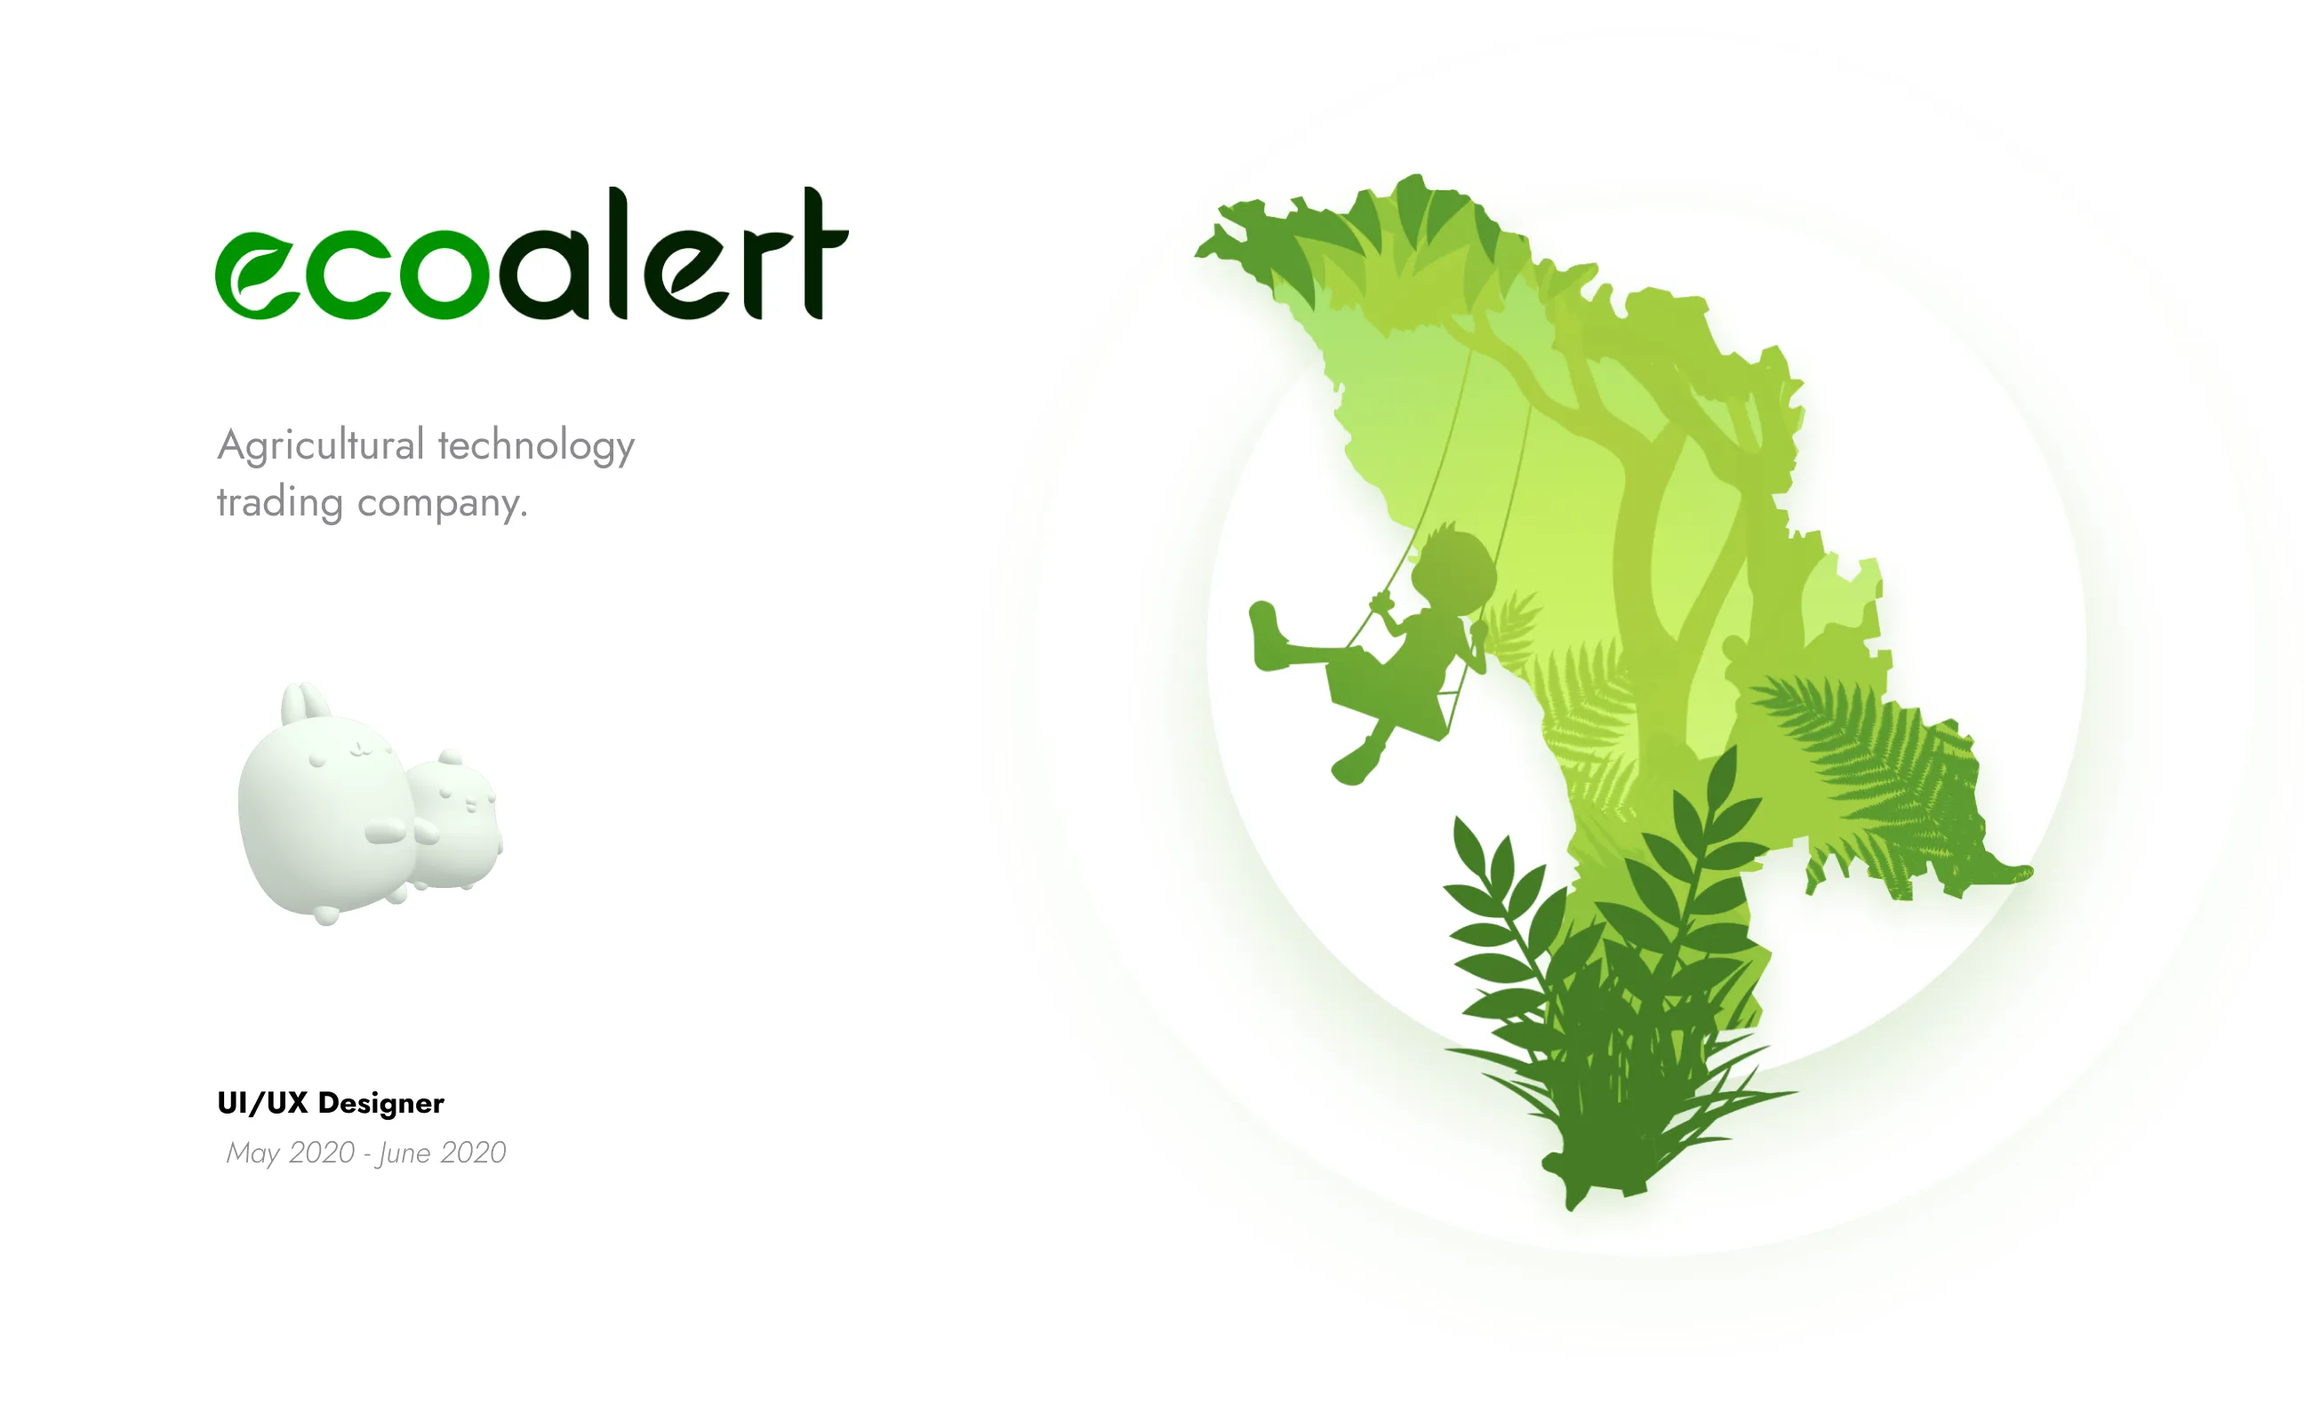
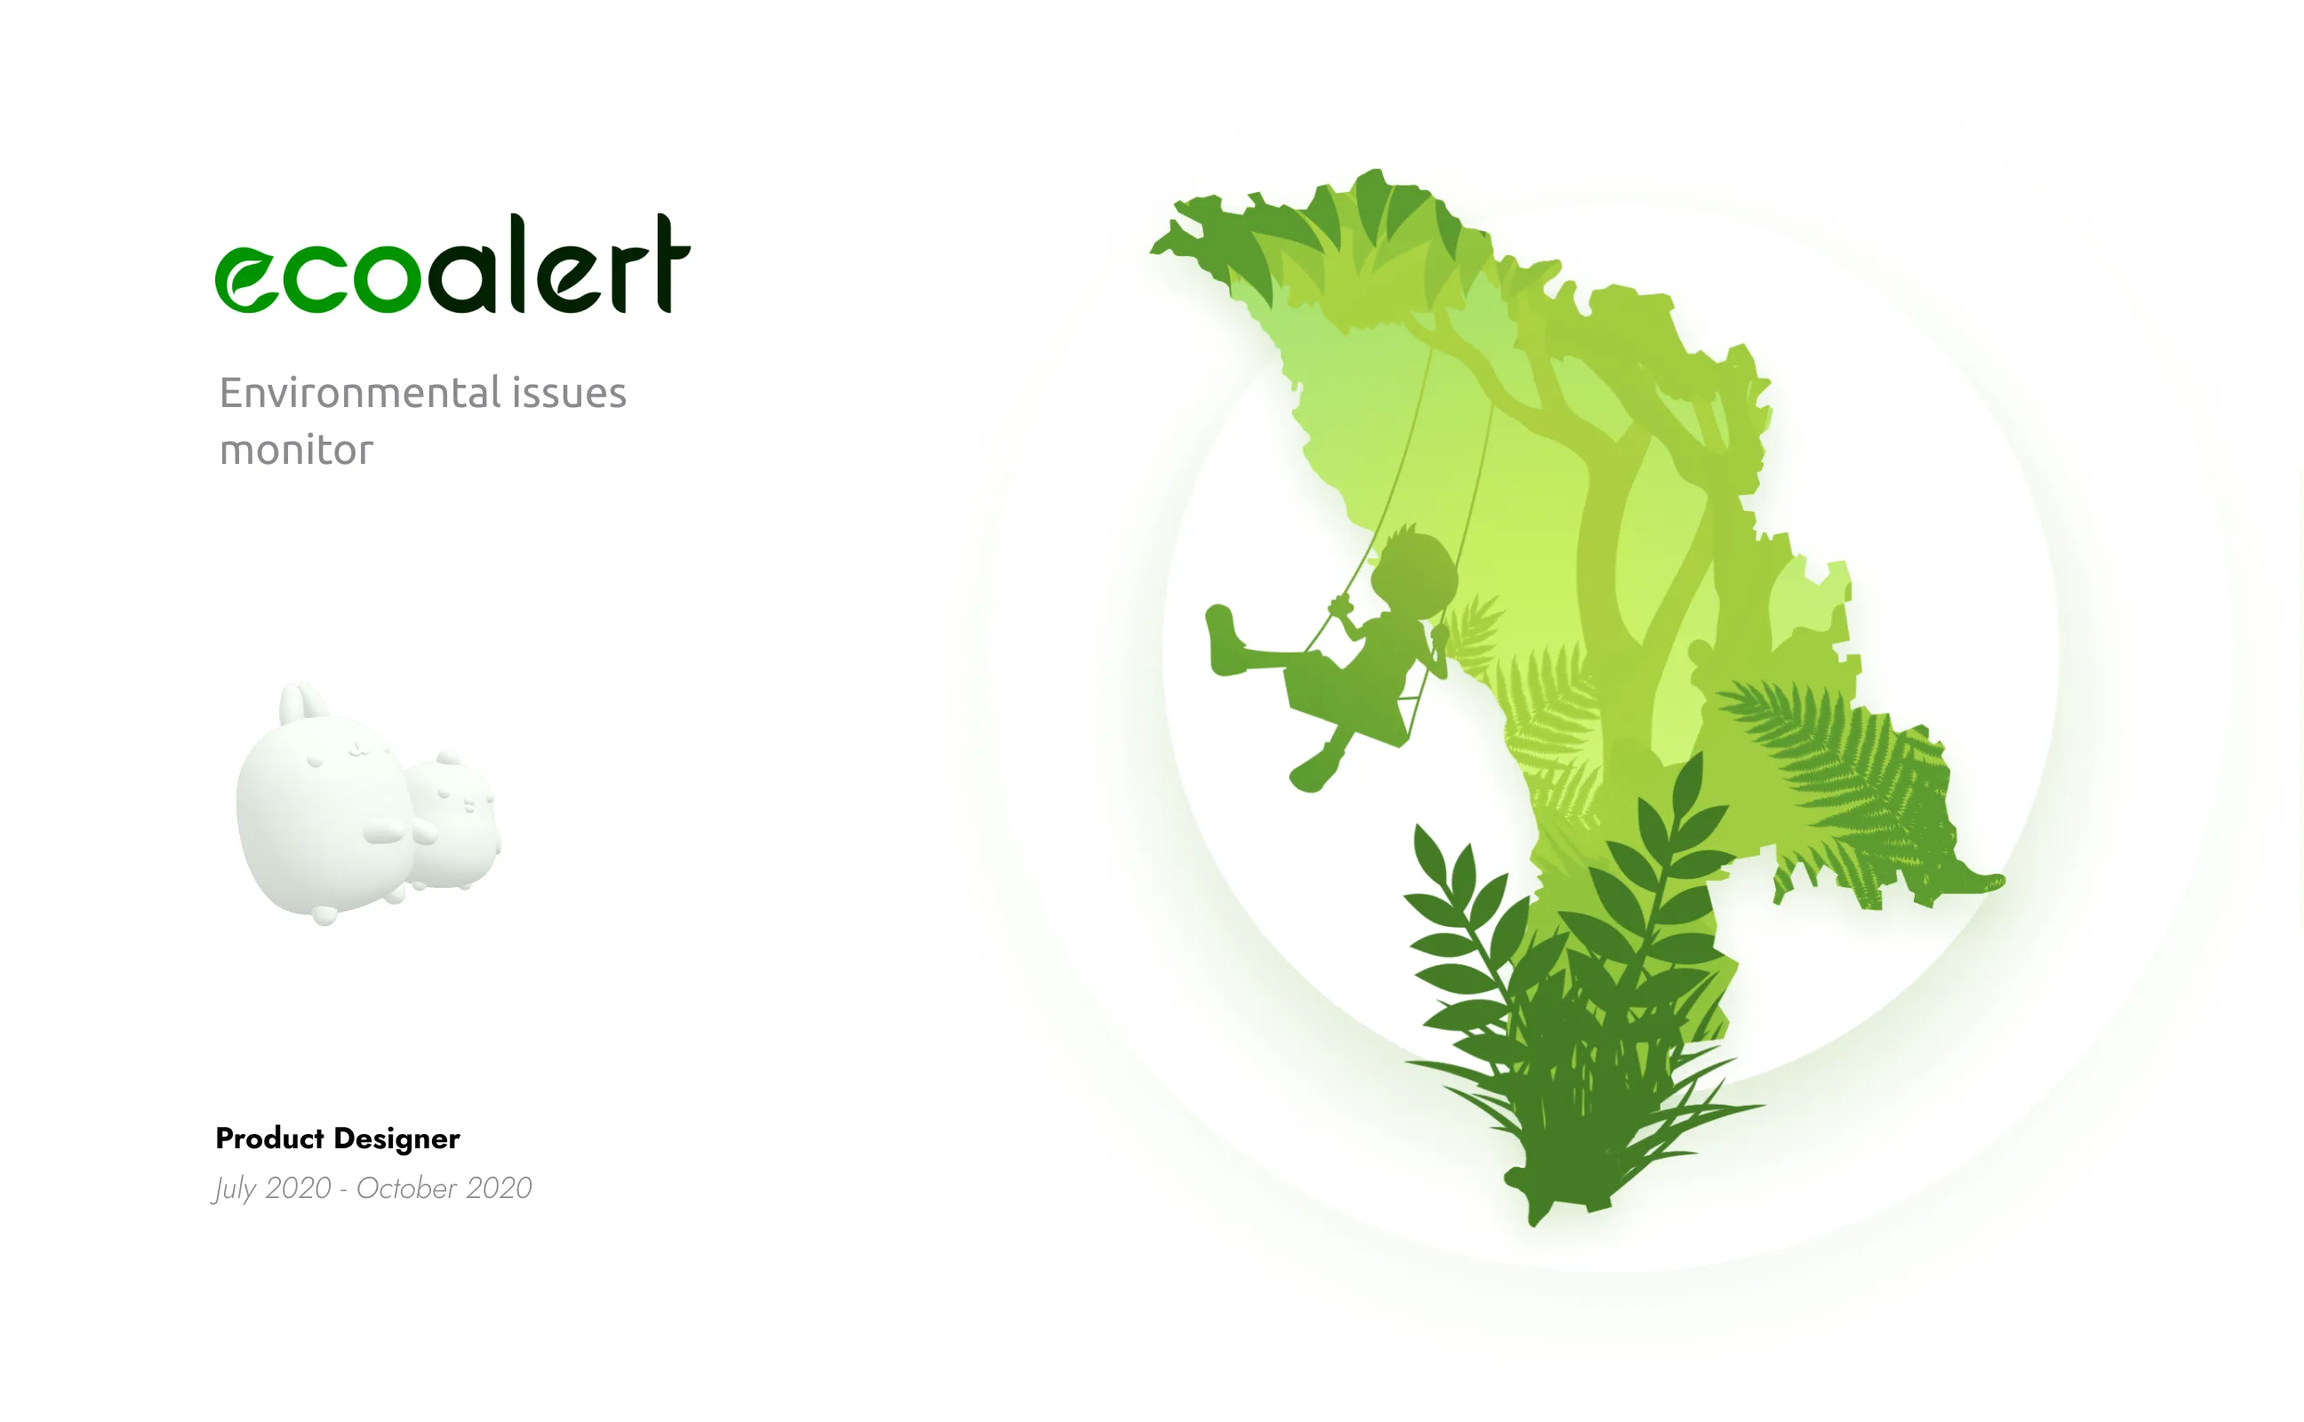
eco cover

diff --git a/eco-alert.html b/eco-alert.html
@@ -20,7 +20,7 @@
     <body>
         <main class="main-style" >
             <div class="nav-proj">
-                <a class="a-header" href="index.html#begin_portfolio"> <img class="pictogram-24m" src="icon/icon-24-left.webp" alt=""> Back</a>
+                <a class="a-header" href="index.html#eco"> <img class="pictogram-24m" src="icon/icon-24-left.webp" alt=""> Back</a>
                 <a class="a-header" href="#shop3desk">Desktop </a>
                 <a class="a-header" href="#shop3mob">Mobile </a>
                 <a class="a-header" href="https://ecoalert.md/" target="_blank">Live</a>
@@ -82,22 +82,26 @@
                     <img class="project-cont__body--imag" src="eco-alert-project/managementul-institutii-redactare-desk.webp" alt="">
                 </div>
 
-                <img class="project-cont__cover--imag" id="shop3mob" src="bio-protec-project/cover-1-bio-mob.webp" alt="">
+                <img class="project-cont__cover--imag" id="shop3mob" src="eco-alert-project/cover-desk.webp" alt="">
 
 
                 <div class="mob_container">
-                    <div class="mob_container__card mob_container__card--screen-1"><p class="mob_container__card--title" >Main page</p><img class="mob_container__card--imag" src="bio-protec-project/principala-mob.webp" alt=""></div>
-                    <div class="mob_container__card mob_container__card--screen-2"><p class="mob_container__card--title" >Catalog</p><img class="mob_container__card--imag" src="bio-protec-project/catalog-mob.webp" alt=""></div>
-                    <div class="mob_container__card mob_container__card--screen-3"><p class="mob_container__card--title" >Search</p><img class="mob_container__card--imag" src="bio-protec-project/filtru-mob.webp" alt=""></div>
-                    <div class="mob_container__card mob_container__card--screen-4"><p class="mob_container__card--title" >Filter catalog</p><img class="mob_container__card--imag" src="bio-protec-project/filtru-2-mob.webp" alt=""></div>
-                    <div class="mob_container__card mob_container__card--screen-5"><p class="mob_container__card--title" >Card product</p><img class="mob_container__card--imag" src="bio-protec-project/produs-mob.webp" alt=""></div>
-                    <div class="mob_container__card mob_container__card--screen-6"><p class="mob_container__card--title" >About</p><img class="mob_container__card--imag" src="bio-protec-project/despre-mob.webp" alt=""></div>
-                    <div class="mob_container__card mob_container__card--screen-7"><p class="mob_container__card--title" >Management</p><img class="mob_container__card--imag" src="bio-protec-project/management-mob.webp" alt=""></div>
-                    <div class="mob_container__card mob_container__card--screen-8"><p class="mob_container__card--title" >Careers</p><img class="mob_container__card--imag" src="bio-protec-project/cariere-mob.webp" alt=""></div>
-                    <div class="mob_container__card mob_container__card--screen-9"><p class="mob_container__card--title" >News</p><img class="mob_container__card--imag" src="bio-protec-project/noutati-mob.webp" alt=""></div>
-                    <div class="mob_container__card mob_container__card--screen-10"><p class="mob_container__card--title" >News</p><img class="mob_container__card--imag" src="bio-protec-project/pagina-noutate-mob.webp" alt=""></div>
-                    <div class="mob_container__card mob_container__card--screen-11"><p class="mob_container__card--title" >Brands</p><img class="mob_container__card--imag" src="bio-protec-project/branduri-mob.webp" alt=""></div>
-                    <div class="mob_container__card mob_container__card--screen-12"><p class="mob_container__card--title" >Contacts</p><img class="mob_container__card--imag" src="bio-protec-project/contacte-mob.webp" alt=""></div>
+                    <div class="mob_container__card mob_container__card--screen-1"><p class="mob_container__card--title" >Main page</p><img class="mob_container__card--imag" src="eco-alert-project/main-mob.webp" alt=""></div>
+                    <div class="mob_container__card mob_container__card--screen-2"><p class="mob_container__card--title" >Catalog</p><img class="mob_container__card--imag" src="eco-alert-project/principala-filtru-mob.webp" alt=""></div>
+                    <div class="mob_container__card mob_container__card--screen-3"><p class="mob_container__card--title" >Search</p><img class="mob_container__card--imag" src="eco-alert-project/menu-admin-mob.webp" alt=""></div>
+                    <div class="mob_container__card mob_container__card--screen-4"><p class="mob_container__card--title" >Filter catalog</p><img class="mob_container__card--imag" src="eco-alert-project/principala-menu-mob.webp" alt=""></div>
+                    <div class="mob_container__card mob_container__card--screen-5"><p class="mob_container__card--title" >Card product</p><img class="mob_container__card--imag" src="eco-alert-project/cautare-mob.webp" alt=""></div>
+                    <div class="mob_container__card mob_container__card--screen-6"><p class="mob_container__card--title" >About</p><img class="mob_container__card--imag" src="eco-alert-project/cautare-filtre-mob.webp" alt=""></div>
+                    <div class="mob_container__card mob_container__card--screen-7"><p class="mob_container__card--title" >Management</p><img class="mob_container__card--imag" src="eco-alert-project/logare-pas-1-mob.webp" alt=""></div>
+                    <div class="mob_container__card mob_container__card--screen-8"><p class="mob_container__card--title" >Careers</p><img class="mob_container__card--imag" src="eco-alert-project/logare-pas-2-mob.webp" alt=""></div>
+                    <div class="mob_container__card mob_container__card--screen-9"><p class="mob_container__card--title" >News</p><img class="mob_container__card--imag" src="eco-alert-project/sesizare-mob.webp" alt=""></div>
+                    <div class="mob_container__card mob_container__card--screen-10"><p class="mob_container__card--title" >News</p><img class="mob_container__card--imag" src="eco-alert-project/sesizare-harta-mob.webp" alt=""></div>
+                    <div class="mob_container__card mob_container__card--screen-11"><p class="mob_container__card--title" >Brands</p><img class="mob_container__card--imag" src="eco-alert-project/descriere-sesizare-mob.webp" alt=""></div>
+                    <div class="mob_container__card mob_container__card--screen-12"><p class="mob_container__card--title" >Contacts</p><img class="mob_container__card--imag" src="eco-alert-project/sesizarile-mele-mob.webp" alt=""></div>
+                    <div class="mob_container__card mob_container__card--screen-13"><p class="mob_container__card--title" >Contacts</p><img class="mob_container__card--imag" src="eco-alert-project/redactare-sesizare-mob.webp" alt=""></div>
+                    <div class="mob_container__card mob_container__card--screen-14"><p class="mob_container__card--title" >Contacts</p><img class="mob_container__card--imag" src="eco-alert-project/profil-mob.webp" alt=""></div>
+
+
                 </div>
             </div>
         </div>

diff --git a/styles/portfolio.css b/styles/portfolio.css
@@ -403,7 +403,7 @@ a{
         left: 24%;
         z-index: -1;
         filter: blur(80px);
-        background: linear-gradient(185.83deg, #3862F8 5.23%, #70C6BB 21.57%, #88EB77 30.84%, #ACED57 36.34%, #D1E435 42.94%, #EDCD32 51.54%, #ECB229 59.03%, #E06930 69.69%, #DA1482 87.93%) border-box;
+        background: linear-gradient(185.83deg, #70C6BB 5.23%, #70C6BB 21.57%, #88EB77 30.84%, #ACED57 36.34%, #D1E435 42.94%, #EDCD32 51.54%, #ECB229 59.03%, #D1E435 69.69%, #70C6BB 87.93%) border-box;
         animation: animate 20s linear infinite;
     }
 
@@ -454,6 +454,51 @@ a{
     }
 
     .book-cont__description{
+        display: flex;
+        flex-direction: column;
+        gap: 32px;
+        flex: 6;
+    }
+
+.eco-cont{
+    margin-top: 210px;
+    display: flex;
+    flex-wrap: wrap;
+    align-items: center;
+    gap: 24px;
+}
+
+    .eco-cont__imag{
+        position: relative;
+        flex: 6;
+    }
+
+    .eco-cont__imag--imag-size{
+        max-width: 93%;
+        max-height: 93%;
+        margin-left: 6%;
+    }
+
+    .eco-cont__imag__shadow{
+        max-width: 100%;
+        max-height: 100%;
+    }
+
+    .eco-cont__imag__shadow--size{
+        border-radius: 84px;
+        transform: rotate(20deg);
+        position: absolute;
+        top: 0%;
+        right: 30%;
+        bottom: 0%;
+        left: 30%;
+        z-index: -1;
+        filter: blur(80px);
+        background: linear-gradient(185.83deg, #70C6BB 5.23%, #70C6BB 21.57%, #88EB77 30.84%, #ACED57 36.34%, #D1E435 42.94%, #EDCD32 51.54%, #ECB229 59.03%, #D1E435 69.69%, #D1E435 87.93%) border-box;
+        animation: animate 20s linear infinite;
+    }
+
+    .eco-cont__description{
         display: flex;
         flex-direction: column;
         gap: 32px;
@@ -676,6 +721,17 @@ button{
             filter: blur(56px);
         }
 
+    .eco-cont {
+        margin-top: 160px;
+    }
+
+        .eco-cont__description {
+            gap: 16px;
+        }
+
+        .eco-cont__imag__shadow--size {
+            filter: blur(56px);  
+        }
 
     .title-2-style{
         font-family: var(--font-default);
@@ -797,6 +853,22 @@ button{
 
         .book-cont__imag__shadow--size{
             filter: blur(48px);
+        }
+
+    .eco-cont {
+        margin-top: 160px;
+    }
+    
+        .eco-cont__description {
+            gap: 16px;
+        }
+    
+        .eco-cont__imag__shadow--size {
+            top: 10%;
+            right: 30%;
+            bottom: 10%;
+            left: 30%;
+            filter: blur(48px);  
         }
 
 
@@ -1191,7 +1263,47 @@ button{
             gap: 24px;
         }
 
+    .eco-cont{
+        margin-top: 124px;
+        display: flex;
+        flex-wrap: wrap;
+        flex-direction: column;
+        align-items: center;
+        gap: 24px;
     }
+
+        .eco-cont__imag{
+            position: relative;
+            order: 1;
+        }
+
+        .eco-cont__imag--imag-size{
+            max-width: 98%;
+            max-height: 98%;
+            margin-left: 0%;
+        }
+
+        .eco-cont__imag__shadow{
+            max-width: 100%;
+            max-height: 100%;
+        }
+
+        .eco-cont__imag__shadow--size{
+            top: 8%;
+            right: 30%;
+            bottom: 8%;
+            left: 30%;
+            filter: blur(56px);
+        }
+
+        .eco-cont__description{
+            display: flex;
+            flex-direction: column;
+            gap: 24px;
+            order: 2;
+        }
+
+}
 
     @media all and (min-width: 320px) and (max-width: 575px){
 
@@ -1541,6 +1653,46 @@ button{
             display: flex;
             flex-direction: column;
             gap: 24px;
+        }
+
+    .eco-cont{
+        margin-top: 124px;
+        display: flex;
+        flex-wrap: wrap;
+        flex-direction: column;
+        align-items: center;
+        gap: 24px;
+    }
+
+        .eco-cont__imag{
+            position: relative;
+            order: 1;
+        }
+
+        .eco-cont__imag--imag-size{
+            max-width: 98%;
+            max-height: 98%;
+            margin-left: 0%;
+        }
+
+        .eco-cont__imag__shadow{
+            max-width: 100%;
+            max-height: 100%;
+        }
+
+        .eco-cont__imag__shadow--size{
+            top: 10%;
+            right: 30%;
+            bottom: 10%;
+            left: 30%;
+            filter: blur(42px);
+        }
+
+        .eco-cont__description{
+            display: flex;
+            flex-direction: column;
+            gap: 24px;
+            order: 2;
         }
 
 }

diff --git a/index.html b/index.html
@@ -160,6 +160,25 @@
                 </div>
             </div>
 
+            <div class="eco-cont" id="eco" >
+                <div class="eco-cont__description">
+                    <p class="title-2-style">"Ecoalert" environmental issues monitor.</p>
+                    <p class="paragraph-0-style">I designed a website to monitor environmental issues, creating a visually appealing and easy-to-use platform allowing users to report air, water, and soil problems. In addition, the website contains maps that help users understand environmental trends and actions taken by authorities.</p> 
+                    <div class="role-date"> 
+                        <p class="role" >Product Designer</p> 
+                        <p class="role" >&#183;</p> 
+                        <p class="date" > July 2020 - October 2020</p>
+                    </div>
+                    <a class="position-button" href="eco-alert.html"><button class="button-resize-butoon" >Project view <img class="pictogram-24" src="icon/icon-24-right.webp" alt=""></button> </a>
+                </div>
+                <div class="eco-cont__imag">
+                    <img class="eco-cont__imag--imag-size" src="portofolio/cover-eco-project.webp" alt="">
+                    <div class="eco-cont__imag__shadow">
+                        <div class="eco-cont__imag__shadow--size" ></div>
+                    </div>
+                </div>
+            </div>
+
         </main>
         <footer>
             <p class="footer-text" >&#169; 2023 Brinza Evghenii. All Right Reserved.</p> 

diff --git a/styles/eco-alert.css b/styles/eco-alert.css
@@ -85,43 +85,49 @@
     }
 
     .mob_container__card--screen-1 {
-        grid-row-end: span 297;
+        grid-row-end: span 552;
     }
     .mob_container__card--screen-2 {
-        grid-row-end: span 490;
+        grid-row-end: span 608;
     }
 
     .mob_container__card--screen-3 {
-        grid-row-end: span 393;
+        grid-row-end: span 92;
     }
     .mob_container__card--screen-4 {
-        grid-row-end: span 132;
+        grid-row-end: span 92;
     }
 
     .mob_container__card--screen-5 {
-        grid-row-end: span 502;
+        grid-row-end: span 470;
     }
 
     .mob_container__card--screen-6 {
-        grid-row-end: span 384;
+        grid-row-end: span 526;
     }
     .mob_container__card--screen-7 {
-        grid-row-end: span 449;
+        grid-row-end: span 92;
     }
     .mob_container__card--screen-8 {
-        grid-row-end: span 328;
+        grid-row-end: span 106;
     }
     .mob_container__card--screen-9 {
-        grid-row-end: span 543;
+        grid-row-end: span 270;
     }
     .mob_container__card--screen-10 {
-        grid-row-end: span 509;
+        grid-row-end: span 68;
     }
     .mob_container__card--screen-11 {
-        grid-row-end: span 474;
+        grid-row-end: span 390;
     }
     .mob_container__card--screen-12 {
-        grid-row-end: span 220;
+        grid-row-end: span 453;
+    }
+    .mob_container__card--screen-13 {
+        grid-row-end: span 270;
+    }
+    .mob_container__card--screen-14 {
+        grid-row-end: span 165;
     }
 
     .mob_container__card--imag{
